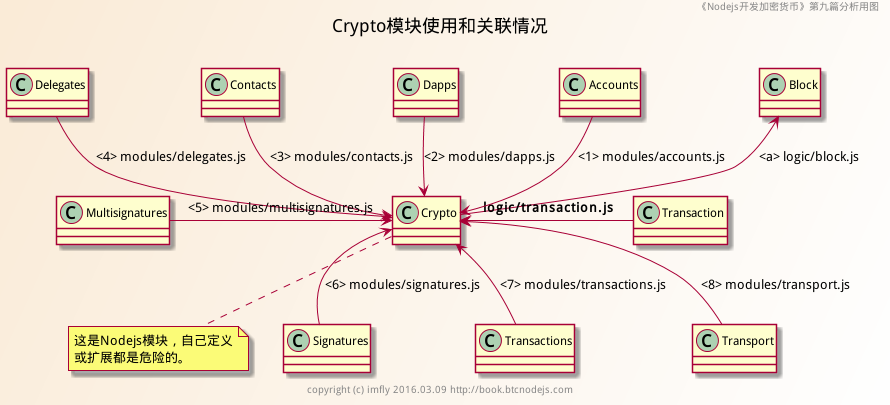
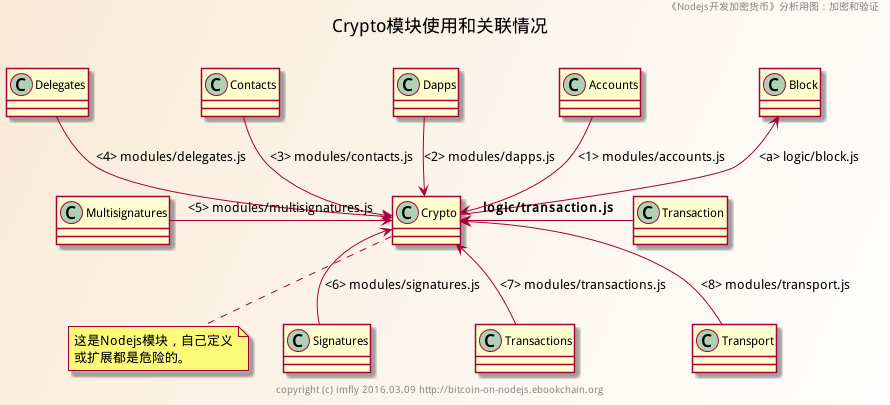
修改第16篇

Changed region(s): [[0.3034, 0.9481, 0.6978, 0.9778], [0.7584, 0.0, 1.0, 0.0296]]

diff --git a/3-源码解读/5-地址.md b/3-源码解读/5-地址.md
@@ -2,9 +2,7 @@
 
 ## 前言
 
-上一篇，我们专门研究了《在Nodejs中使用加密解密技术》，明白了加密解密的使用。并在讲解加密解密技术的过程中，详细说明了地址产生的过程。但是，从开发的角度来说，远远不够，因为产生的密钥地址如何持久化到数据库？如何检索？如何用来签名？怎么实现交易的？
-
-本篇文章，就从业务逻辑的角度，看看亿书的地址、签名和交易是如何实现的。
+上一篇，我们专门研究了《加密和验证》技术，明白了亿书对于加密解密技术的简单使用。我们说，加密货币处处都要用到加密解密技术，绝对不是一句空话，本篇文章我们就从最基础的加密货币地址开始，来学习和体会这句话的意义。
 
 ## 源码
 
@@ -22,17 +20,19 @@ contacts.js https://github.com/Ebookcoin/ebookcoin/blob/master/modules/contacts.
 
 ## 流程图
 
-这里的逻辑并不复杂，其本质就是一种`交易`，所以，请参考《交易》一章的流程图。
+这里的逻辑并不复杂，其本质就是一种`交易`，所以，我们将在《交易》那篇提供详细的流程图。
 
 ## 解读
 
 计算机软件是人类活动的模拟和程序化，也就是大家所谓的“虚拟化”。在设计的时候，都会设想一个角色（Role）代替人类，负责完成要开发的各类操作。这个角色，通常在开发中被定义为用户（User），用户看到并可操作的就是用户帐号，在此基础上，才能进行权限认证，记录和管理与用户有关的各类操作。
 
-比特币里的用户角色仅仅就是一个比特币地址，而因为真实网络的复杂性，对于IP的追踪也不容易，所以说比特币的匿名性很好（因为压根就没有给你暴露名字的机会）。作为一款加密货币产品，亿书自然也提供了类似比特币的加密字符串地址。同时，亿书还提供了用户名功能，即“别名地址”。原因有三个：
+比特币里的用户角色仅仅就是一个比特币地址，该地址是通过Hash算法进行加密处理的字符串，因此我们叫它`Hash地址`。同时，基于真实网络的复杂性，对于IP地址的追踪也不容易，所以比特币的匿名性很好（因为压根就没有给你暴露名字的机会）。
 
-1. 本质需要。版权保护应用，必然要明确版权所有人。实名信息更具真实性和可靠性，如果再进行完全的匿名操作，显然有点不合适，属于跟自己过不去。当然，普通阅读用户不需要实名，亿书允许保持足够的匿名性。
-2. 用户需要。复杂的字符串地址不适合人类脑记，很多人在最初接触比特币的时候，非常不习惯，经常弄混、忘记自己的比特币地址就是很好的证明。
-3. 产品需要。说到交互功能，比特币除了交易功能之外，是没有什么交互的。而作为面向普通用户的亿书，要提供基本写作、团队协作、自出版等极具个性化的功能，人类社交摆在突出位置，交互功能得到强化，充满个性用户名等是必须的。
+亿书作为一款加密货币产品，自然也提供了类似的`Hash地址`。并基于该地址，扩展提供了其他功能，比如“别名地址”。原因有三个：
+
+1. **本质需要**。版权保护应用，必然要明确版权所有人，实名信息是基本要求，如果再进行完全的匿名操作，显然有点不合适，属于跟自己过不去。当然，普通阅读用户不需要实名，亿书允许保持足够的匿名性。
+2. **用户需要**。复杂的字符串地址不适合人类脑记，很多人在最初接触比特币的时候，非常不习惯，经常弄混、忘记自己的比特币地址就是很好的证明。
+3. **产品需要**。说到交互功能，比特币除了交易之外，是没有什么交互的。而作为面向普通用户的亿书，要提供基本写作、团队协作、自出版等极具个性化的功能，交互功能被摆在突出位置，充满个性化的用户名是必须的。
 
 具体操作时，可以实现下面的需求，详见 [亿书白皮书][] ：
 
@@ -40,7 +40,7 @@ contacts.js https://github.com/Ebookcoin/ebookcoin/blob/master/modules/contacts.
 2. 用户名都是唯一的;
 3. 注册后无法更改或删除;
 4. 用户名可作为支付地址，所以称为`别名地址`，类似于人们常用的支付宝帐号，其它用户可以直接向该用户的用户名付款，用户不再需要记下一长串的加密货币地址;
-5. 用户可以维护一个联系人列表;
+5. 用户可以维护一个联系人列表。
 
 这些操作和信息，都可以在客户端里完成，如下图所示：
 
@@ -98,9 +98,7 @@ get /api/accounts/count -> private.accounts
 ...
 ```
 
-这里的`delegates`（受托人）api，以及后面的debug环境下的api，暂且不提。通盘浏览这些公开接口信息，我们知道，可以直接浏览的信息主要包括余额（balance)、公钥（publicKey)、用户名（username）及修改需要花费的费用（fee），以及受托人及其费用等，可以产生公钥，可以添加用户名。但是，没有删除和修改用户名的接口功能。
-
-对照上面的需求，我们还需要明白，如何做到用户名唯一的，以及如何作为支付地址功能的，这就需要进一步参看源代码。
+这里的`delegates`（受托人）api，以及后面的debug环境下的api，暂且不提。通盘浏览这些公开接口信息，我们知道，可以直接浏览的信息主要包括余额（balance)、公钥（publicKey)、用户名（username）及修改用户名需要花费的费用（fee），以及受托人及其费用等，可以产生公钥和添加用户名。但是，没有删除和修改用户名的功能，所以一旦注册了用户名，想要修改，只能重新注册一个。
 
 #### 2.Hash地址
 
@@ -123,7 +121,7 @@ Accounts.prototype.generateAddressByPublicKey = function (publicKey) {
 };
 ```
 
-另一个类似的地址，就是区块链的以c结尾的块地址，用来标注`generatorId`，代码与上密的基本一致：
+另一个类似的地址，就是区块链的以c结尾的块地址，用来标注`generatorId`，代码与上面的基本一致：
 
 ```
 // logic/block.js 20行
@@ -143,7 +141,7 @@ generatorId: private.getAddressByPublicKey(raw.b_generatorPublicKey),
 ```
 #### 3.别名地址
 
-用户名相当于地址别名，就像支付宝帐号，所以白皮书说“别名地址”。我们知道，只有在转移支付的时候，才会用到地址（接受地址和发送地址），所以体现把用户名当作地址的逻辑代码，自然要在处理交易的代码里，也就是`modules/transactions.js`，具体如下：
+用户名相当于地址别名，就像支付宝帐号，所以白皮书说“别名地址”。我们知道，只有在转移支付的时候，才会用到地址（接受地址和发送地址），所以体现把用户名当作地址的逻辑代码，自然要在处理“资金转移”的交易代码里，看看`modules/transactions.js`文件，具体如下：
 
 ```
 // modules/transactions.js 文件
@@ -193,11 +191,11 @@ shared.addTransactions = function (req, cb) {
 						...
 ```
 
-上述代码，实现的就是资金转账的功能（后台编码的交易类型`TransactionTypes.SEND`，见764行），毫无疑问，必须提供三个参数"secret", "amount", "recipientId"（见685行）。 其中`recipientId` 可以是字符串地址，也可以是用户名，具体逻辑在702行。从764行以后的代码还可以了解到，交易`recipientId`和`recipientUsername`字段都保存在数据库里了。
+上述代码，实现的就是资金转账的功能（后台编码的交易类型`TransactionTypes.SEND`，见764行），毫无疑问，必须提供三个参数"secret", "amount", "recipientId"（见685行）。从702行可知，其中`recipientId` 可以是字符串地址，也可以是用户名。从764行以后的代码还可以了解到，交易时的`recipientId`和`recipientUsername`字段都保存在数据库里了。
 
 #### 4.注册用户名
 
-亿书默认不提供别名地址，需要用户注册。从上面的Api，很容易找到“注册用户名”的源码`shared.addUsername`，如下：
+亿书默认不提供别名地址，需要用户注册。从上面的Api，很容易找到“注册用户名”的源码方法`shared.addUsername`，如下：
 
 ```
 // 868行
@@ -268,9 +266,7 @@ shared.addUsername = function (req, cb) {
 		...
 ```
 
-分析代码949行和984行，可以了解到，所谓的`注册用户名`，实质上就是提交了一个`TransactionTypes.USERNAME`类型的交易。另外，因为亿书提供了多重签名和支付密码功能，对每笔交易都要进行验证，这部分我们在后面分析。关于交易如何验证和创建，您也可以查看交易部分的流程图。
-
-看890行代码，说明该Api必须两个参数，用户要提供明文密码(secret)和用户名(username)。
+分析代码949行和984行，可以了解到，所谓的`注册用户名`，实质上就是提交了一个`TransactionTypes.USERNAME`类型的交易。890行代码，说明该Api必须两个参数，用户要提供明文密码(secret)和用户名(username)。
 
 #### 5.联系人列表
 
@@ -394,6 +390,6 @@ shared.getContacts = function (req, cb) {
 
 [亿书白皮书]: http://ebookchain.org/ebookchain.pdf
 
-[wallet-add-username]: ../styles/images/third/wallet-add-username.jpg
+[wallet-add-username]: ../styles/images/third/wallet-add-username.png
 [accounts-class.png]: ../styles/images/modules/accounts/accounts-class.png
 [contacts-class.png]: ../styles/images/modules/accounts/contacts-class.png

diff --git a/3-源码解读/4-加密和验证.md b/3-源码解读/4-加密和验证.md
@@ -1,11 +1,10 @@
-# 在Node.js中使用加密解密技术
-
+# 加密和验证
 
 ## 前言
 
 加密解密技术在加密货币开发中的作用不言而喻。但技术本身并不是什么新鲜事，重要的是如果没有前面的P2P网络，和后面要介绍的区块链，单独的加解密显然没有那么神奇，加密货币也不会成为无需验证、高度可信的强大网络。
 
-但是，提到加解密技术，业界的通则是，使用现成的组件，严格按照文档去做，别自作聪明，这也是使用加密解密技术的最安全方式。这篇就来研究`Ebookcoin`是如何使用加解密技术的。
+但是，提到加解密技术，业界的通则是，使用现成的组件，严格按照文档去做，别自作聪明，这也是使用加密解密技术的最安全方式。这篇就来研究亿书是如何使用加解密技术的。
 
 ## 源码
 
@@ -155,7 +154,7 @@ Accounts.prototype.generateAddressByPublicKey = function (publicKey) {
 
 加解密技术专业性很强，需要花费时间深入研究。我在前人研究成果的基础上进行了汇总和再加工，绘制了三张脑图，建议阅读，详情见第四部分《三张图让你全面掌握加密解密技术》一章。本篇权当入门，并没有对交易、区块链和委托人等的加密验证处理过程进行分析，加密解密过程都比较类似，后续阅读时会进一步说明。
 
-其实，加密和验证的过程贯穿于交易的全过程，研究交易才是更好的理解加密和验证机制的方法。因此，请看下一篇：**帐号、签名与交易**
+其实，加密和验证的过程贯穿于亿书的全过程，接下来我们逐一揭开他们神秘的面纱。请看下一篇：**地址**
 
 ## 参考
 

diff --git a/SUMMARY.md b/SUMMARY.md
@@ -14,16 +14,16 @@
   * [Nodejs让后台开发像前端一样简单](2-Node.js入门指南/3-Nodejs让后台开发像前端一样简单.md)
   * [您必须知道的几个Nodejs编码习惯](2-Node.js入门指南/4-您必须知道的几个Nodejs编码习惯.md)
 - [源码解读](3-源码解读/readme.md)
-  * [亿书，一个面向未来的自出版平台](3-源码解读/1-亿书，一个面向未来的自出版平台.md)
-  * [DPOS机制的实现](3-源码解读/10-DPOS机制的实现.md)
+  * [亿书，一个面向未来的自出版平台](3-源码解读/1-亿书，一个面向未来的自出版平台.md)  
   * [入口程序app.js解读](3-源码解读/2-入口程序app.js解读.md)
   * [一个精巧的p2p网络实现](3-源码解读/3-一个精巧的p2p网络实现.md)
-  * [在Nodejs中使用加密解密技术](3-源码解读/4-在Nodejs中使用加密解密技术.md)
+  * [加密和验证](3-源码解读/4-加密和验证.md)
   * [地址](3-源码解读/5-地址.md)
   * [签名和多重签名](3-源码解读/6-签名和多重签名.md)
   * [交易](3-源码解读/7-交易.md)
   * [神秘的区块链](3-源码解读/8-神秘的区块链.md)
   * [侧链的实现](3-源码解读/9-侧链的实现.md)
+  * [DPOS机制的实现](3-源码解读/10-DPOS机制的实现.md)
 - [开发实践](4-开发实践/readme.md)
   - 后台的架构
     * [一张图学会使用Async组件进行流程控制](4-开发实践/0-后台的架构/2-一张图学会使用Async组件进行流程控制.md)
@@ -51,4 +51,3 @@
   * [关于作者](5-附录/4-关于作者.md)
 - [后记](6-后记/readme.md)
   * [记录应该记住的内容](6-后记/1-记录应该记住的内容.md)
-* [Test](test.md)
